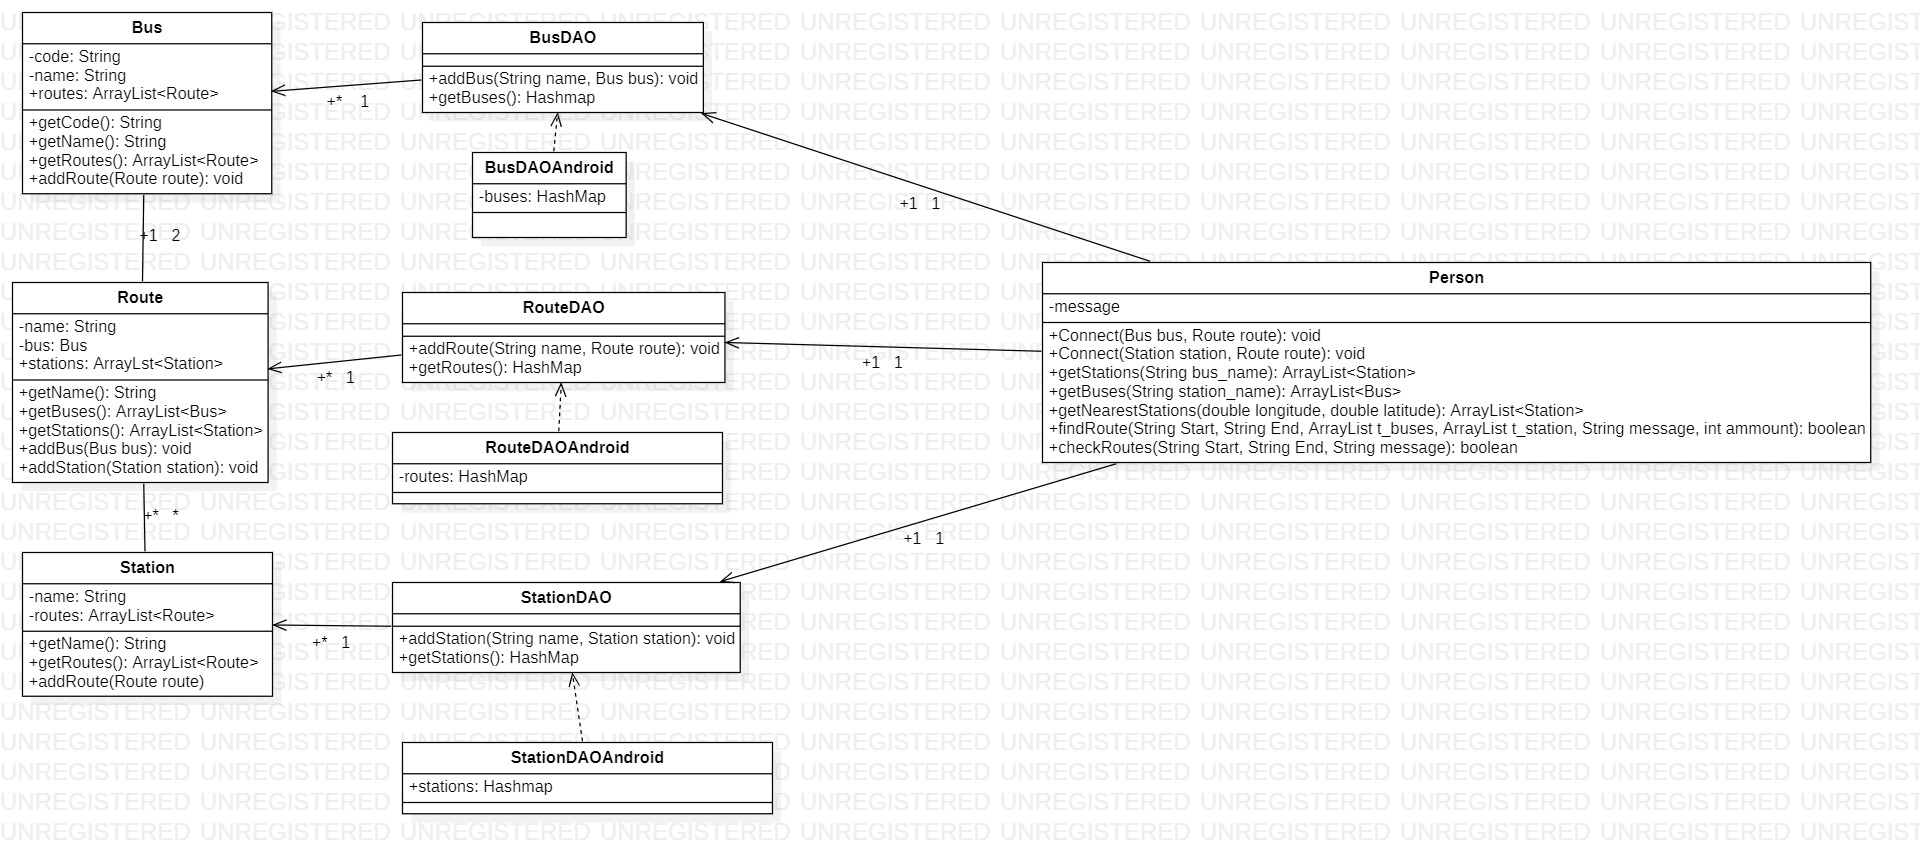
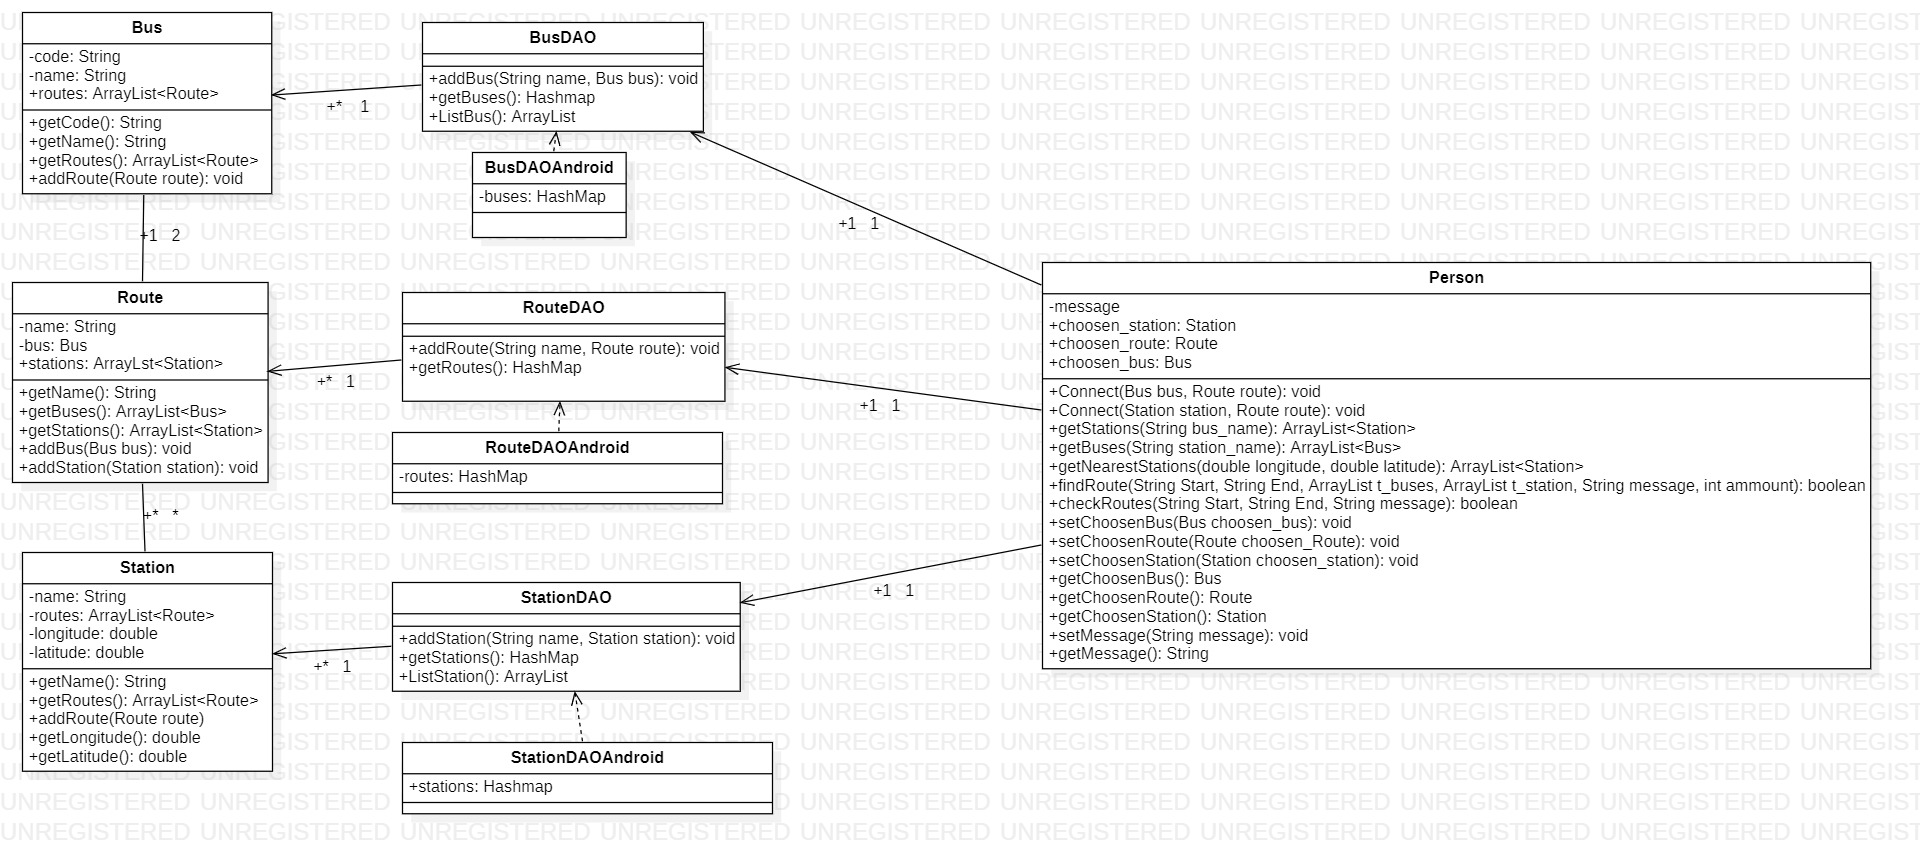
Commit

diff --git a/app/src/main/java/com/example/new_bus_application/domain_model/Station.java b/app/src/main/java/com/example/new_bus_application/domain_model/Station.java
@@ -1,0 +1,31 @@
+package com.example.new_bus_application.domain_model;
+
+import java.util.ArrayList;
+
+public class Station{
+    private ArrayList<Route> routes=new ArrayList<>();
+    private final double longitude;
+    private final double latitude;
+    private final String name;
+    public Station(String name,double longitude,double latitude){
+        this.name=name;
+        this.longitude=longitude;
+        this.latitude=latitude;
+    }
+    public double getLongitude(){
+        return longitude;
+    }
+
+    public double getLatitude() {
+        return latitude;
+    }
+    public String getName(){
+        return name;
+    }
+    public void addRoute(Route route){
+        routes.add(route);
+    }
+    public ArrayList<Route> getRoutes(){
+        return routes;
+    }
+}

diff --git a/app/src/main/java/com/example/new_bus_application/domain_model/Route.java b/app/src/main/java/com/example/new_bus_application/domain_model/Route.java
@@ -1,0 +1,28 @@
+package com.example.new_bus_application.domain_model;
+
+import java.util.ArrayList;
+
+public class Route {
+    private final String name;
+    private Bus bus;
+    private ArrayList<Station> stations=new ArrayList<>();
+    public Route(String name){
+        this.name=name;
+    }
+    public void SetBus(Bus bus){
+        this.bus=bus;
+    }
+    public Bus getBus(){
+        return bus;
+    }
+    public ArrayList<Station> getStations(){
+        return stations;
+    }
+    public void addStation(Station station){
+        stations.add(station);
+    }
+    public String getName(){
+        return name;
+    }
+
+}

diff --git a/app/src/main/java/com/example/new_bus_application/domain_model/Bus.java b/app/src/main/java/com/example/new_bus_application/domain_model/Bus.java
@@ -1,0 +1,25 @@
+package com.example.new_bus_application.domain_model;
+
+import java.util.ArrayList;
+
+public class Bus {
+    private final String code;
+    private  final String name;
+    private ArrayList<Route> routes=new ArrayList<>(2);
+    public Bus(String code,String name){
+        this.code=code;
+        this.name=name;
+    }
+    public String getCode(){
+        return  code;
+    }
+    public String getName(){
+        return name;
+    }
+    public void addRoute(Route route){
+        routes.add(route);
+    }
+    public ArrayList<Route> getRoutes(){
+        return routes;
+    }
+}
